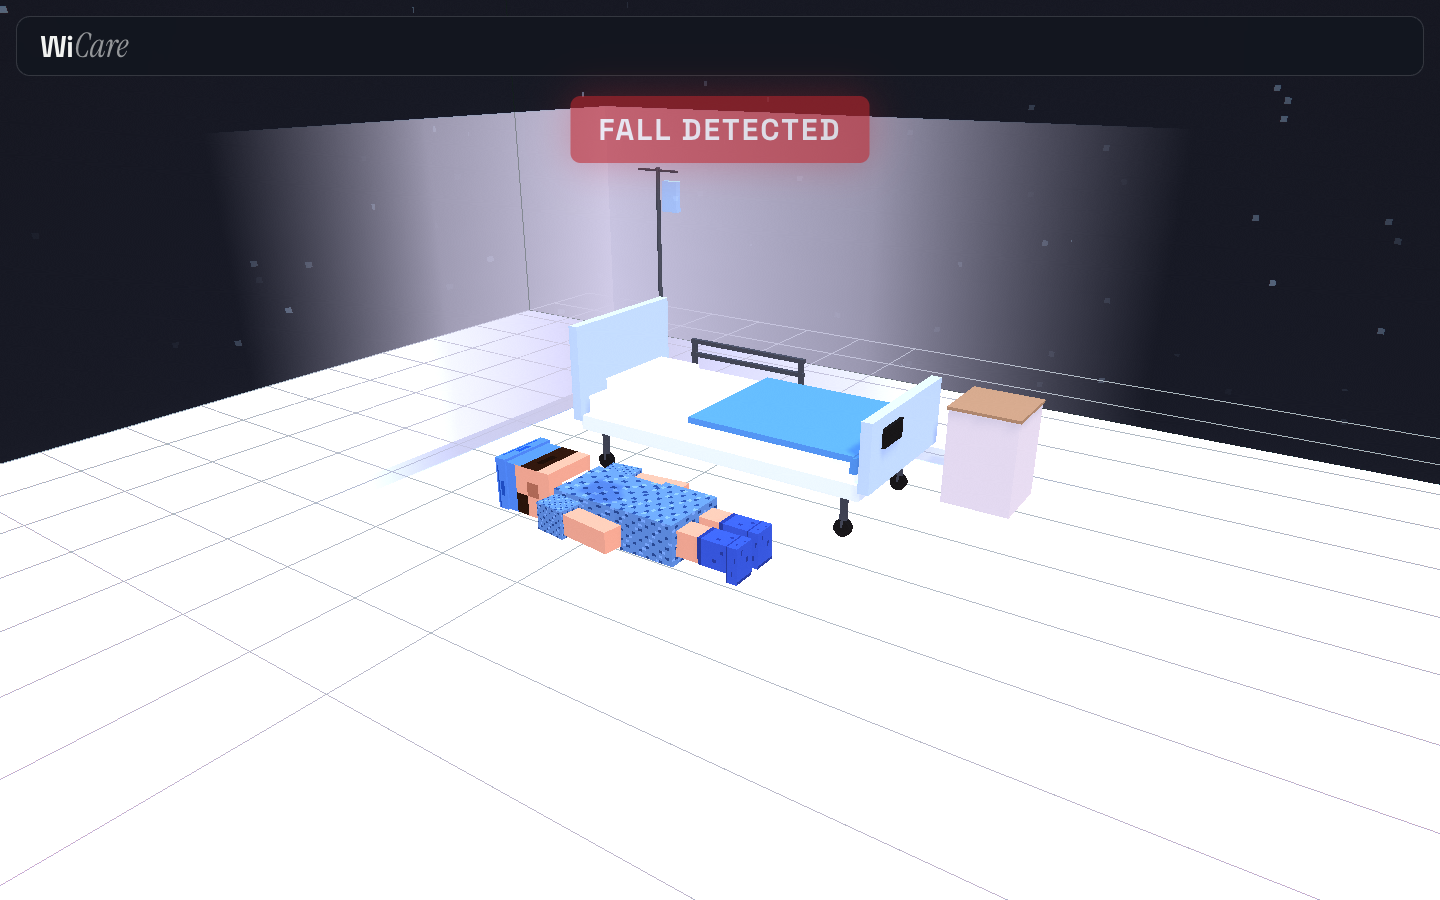
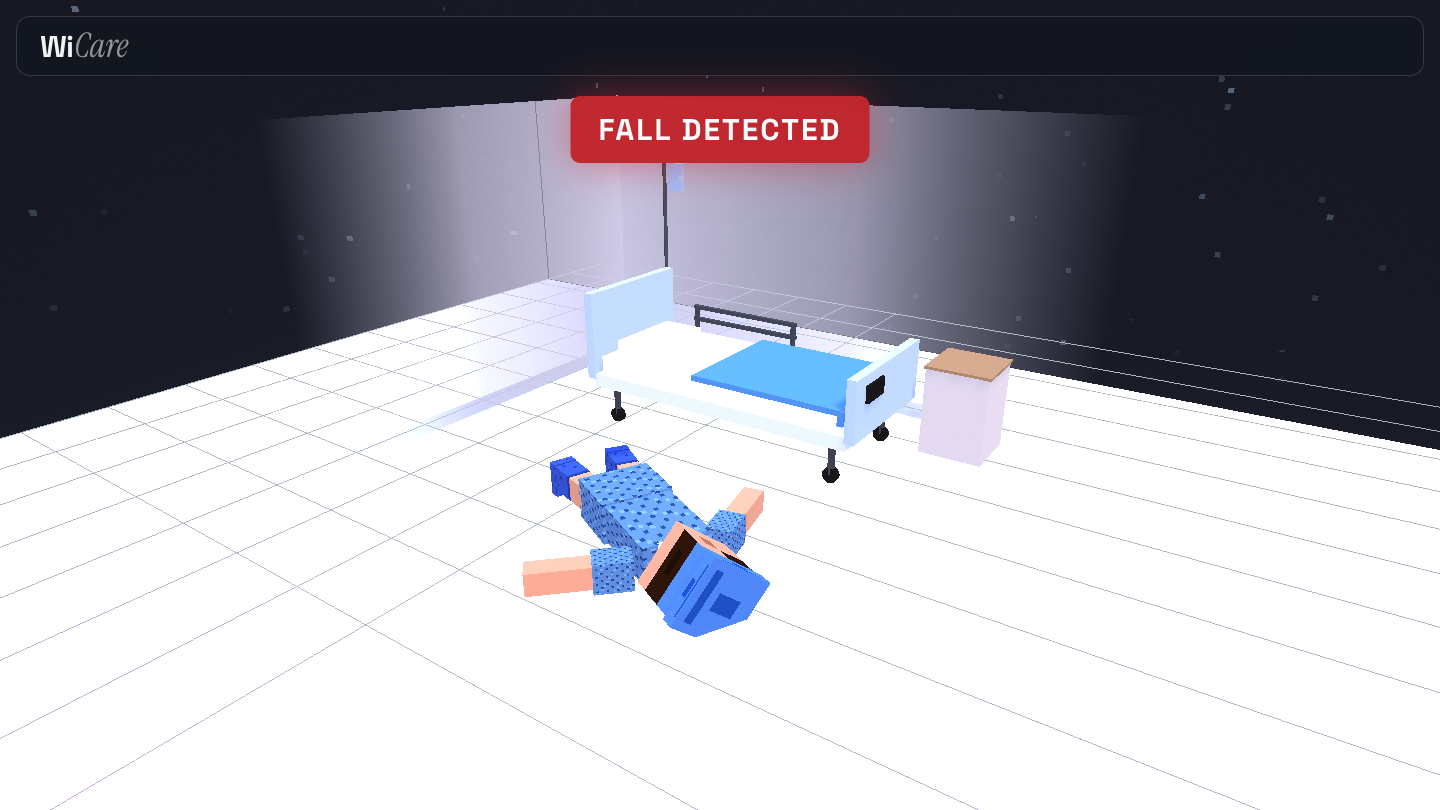
Room view: the patient falls to the floor beside the bed and stays there (plays once); new README pictures

diff --git a/frontend/observatory/js/pixel-patient.js b/frontend/observatory/js/pixel-patient.js
@@ -1,16 +1,14 @@
 /**
  * WiCare room view (?room=1): the patient as a pixel-style (blocky) man in a hospital gown, replacing the line figure.
- * Follows the room story from demo-data.js 'stand_fall': lying in bed, rolls off the near edge, face down on the floor.
- *   data.persons[0].pose: 'waking' (in bed) or 'bedfall'; data.persons[0].fallProgress: 0 in bed .. 1 on the floor.
- * Bed geometry matches scenario-props.js _buildHospital (centre -1.5, -2.5; mattress top 0.53; head toward -x).
+ * Follows the room story from demo-data.js 'stand_fall': standing beside the bed, falls forward, face down on the floor.
+ *   data.persons[0].fallProgress: 0 standing .. 1 on the floor.
+ * Bed geometry matches scenario-props.js _buildHospital (centre -1.5, -2.5; front edge z -1.9).
  */
 import * as THREE from 'three';
-import { WAKE_BED } from './pose-system.js';
+import { FALL_SPOT } from './demo-data.js';
 
-const BX = 3.5 + WAKE_BED.dx, BZ = -3.5 + WAKE_BED.dz, MATTRESS_TOP = 0.53;
 const S = 0.9, HALF_DEPTH = 0.13 * S;
-const HIP_BED = MATTRESS_TOP + HALF_DEPTH + 0.01;
-const EDGE_Y = MATTRESS_TOP, EDGE_Z = BZ + 0.46;
+const HIP = 0.85 * S;                                  // hip height when standing (feet on the floor)
 
 const SKIN = '#e8c4ab', SKIN_D = '#c99f86', HAIR = '#5a3a24', HAIR_D = '#3f2717';
 const GOWN = '#93b4cf', GOWN_D = '#5a84ad', GOWN_L = '#a9c5dc', SOCK = '#6d8fcf', SOCK_D = '#5675b3', CAP = '#86b0d8';
@@ -59,12 +57,11 @@ function block(w, h, d, m, x, y, z, parent) {
   b.position.set(x, y, z); b.castShadow = true; b.receiveShadow = true; parent.add(b); return b;
 }
 const ss = (a, b, t) => { const x = Math.min(1, Math.max(0, (t - a) / (b - a))); return x * x * (3 - 2 * x); };
-const mix = (a, b, k) => a + (b - a) * k;
 
 export class PixelPatient {
   constructor(scene) {
-    this.rig = new THREE.Group();                      // pivot on the mattress edge for the roll off the bed
-    this.root = new THREE.Group(); this.root.rotation.order = 'YXZ';
+    this.rig = new THREE.Group(); this.rig.rotation.order = 'YXZ';   // pivot at the feet: the body tips forward from here
+    this.root = new THREE.Group(); this.root.position.y = HIP;
     this.rig.add(this.root); scene.add(this.rig);
     const body = new THREE.Group(); body.scale.setScalar(S); this.root.add(body);
 
@@ -97,26 +94,25 @@ export class PixelPatient {
     });
   }
 
-  /** k: 0 lying in bed .. 1 face down on the floor beside it. */
+  /** k: 0 standing .. 1 face down on the floor. */
   set(k, breath, twitch = 0) {
-    const e = k * k * (3 - 2 * k), flail = Math.sin(k * Math.PI);
-    this.rig.position.set(0, mix(EDGE_Y, HALF_DEPTH + 0.02 + (HIP_BED - EDGE_Y), e), EDGE_Z + 0.15 * e);
-    this.rig.rotation.x = Math.PI * e;
-    this.root.position.set(BX - 0.05, HIP_BED - EDGE_Y, BZ - EDGE_Z);
-    this.root.rotation.set(-Math.PI / 2, Math.PI / 2, 0);   // on the back, head toward the headboard
-    this.torso.rotation.x = k === 0 ? breath * 0.015 : 0;
-    this.head.rotation.x = -0.3 * flail;
-    this.arms[0].rotation.set(-1.2 * flail + twitch, 0, -(0.5 * flail + 0.12 * k));
-    this.arms[1].rotation.set(-0.9 * flail, 0, 0.5 * flail + 0.12 * k);
-    this.legs[0].thigh.rotation.x = -0.5 * flail; this.legs[1].thigh.rotation.x = -0.2 * flail;
-    this.legs[0].shin.rotation.x = 0.6 * flail; this.legs[1].shin.rotation.x = 0;
+    const e = k * k, flail = Math.sin(k * Math.PI), sway = (1 - Math.min(1, k * 4)) * breath;
+    this.rig.position.set(FALL_SPOT.x, (HALF_DEPTH + 0.02) * e, FALL_SPOT.z);
+    this.rig.rotation.set(Math.PI / 2 * e, FALL_SPOT.facing, sway * 0.02);
+    this.torso.rotation.x = sway * 0.015 + 0.25 * flail;                 // folds at the waist on the way down
+    this.head.rotation.set(-0.3 * flail, 0.9 * e, 0);                    // ends with the face turned to one side
+    // arms come forward to break the fall, then lie out to the sides
+    this.arms[0].rotation.set(-1.3 * flail, 0, -(1.25 * e + twitch));
+    this.arms[1].rotation.set(-1.0 * flail, 0, 0.9 * e);
+    this.legs[0].thigh.rotation.set(-0.55 * flail, 0, -0.12 * e); this.legs[1].thigh.rotation.set(-0.3 * flail, 0, 0.1 * e);
+    this.legs[0].shin.rotation.x = 0.9 * flail; this.legs[1].shin.rotation.x = 0.5 * flail;   // knees buckle
   }
 
   update(data, elapsed) {
     const p = data && data.persons && data.persons[0];
-    const k = p && p.pose === 'bedfall' ? Math.max(0, Math.min(1, p.fallProgress || 0)) : 0;
+    const k = p ? Math.max(0, Math.min(1, p.fallProgress || 0)) : 0;
     const onFloorFor = k >= 1 ? (this._downAt ??= elapsed, elapsed - this._downAt) : (this._downAt = null, 0);
-    const twitch = onFloorFor > 2 && onFloorFor < 2.6 ? Math.sin((onFloorFor - 2) * 10) * 0.25 : 0;
+    const twitch = onFloorFor > 2 && onFloorFor < 2.6 ? Math.sin((onFloorFor - 2) * 10) * 0.12 : 0;
     this.set(k, Math.sin(elapsed * Math.PI * 0.5), twitch);
   }
 }

diff --git a/frontend/observatory/js/demo-data.js b/frontend/observatory/js/demo-data.js
@@ -12,6 +12,9 @@
 
 import { WAKE_BED } from './pose-system.js';
 
+// WiCare room view: where the patient stands (on the floor in front of the bed) and which way they face and fall
+export const FALL_SPOT = { x: -1.9, z: -1.2, facing: 1.1 };
+
 const SCENARIOS = [
   'empty_room',
   'single_breathing',
@@ -598,18 +601,17 @@ export class DemoDataGenerator {
   }
 
   // ========================================================================
-  // WiCare room view (?room=1): lying in bed 0-7 s, falls out of bed 7-8 s, on the floor until 15 s.
+  // WiCare room view (?room=1): standing beside the bed, falls 1.5-2.4 s, then stays on the floor (no repeat).
   // ========================================================================
 
   _standFall(t) {
     const n = _getNoiseBank('stand_fall');
-    t = t % 15;
-    const T0 = 7, T1 = 8;
+    const T0 = 1.5, T1 = 2.4;
     const inFall = t >= T0 && t < T1, down = t >= T1;
     const k = inFall ? (t - T0) / (T1 - T0) : down ? 1 : 0;
-    const bx = 3.5 + WAKE_BED.dx, bz = -3.5 + WAKE_BED.dz;
-    const pose = t < T0 ? 'waking' : 'bedfall';
-    const ms = inFall ? 255 : down ? 2 + Math.abs(n.motion(t)) : 4;
+    const { x, z } = FALL_SPOT;
+    const pose = down ? 'fallen' : inFall ? 'falling' : 'standing';
+    const ms = inFall ? 255 : down ? 2 + Math.abs(n.motion(t)) : 12;
     const impact = inFall ? Math.sin(k * Math.PI) : 0;
     const amplitude = new Float32Array(64);
     for (let i = 0; i < 64; i++) amplitude[i] = (down ? 0.15 : 0.3) + impact * 0.5 + _harmonicNoise(t, i * 0.19, 2) * 0.01;
@@ -618,10 +620,9 @@ export class DemoDataGenerator {
       features: { mean_rssi: -43, variance: down ? 0.5 : 1.5 + impact * 6, std: 1, motion_band_power: inFall ? 0.9 : 0.03,
         breathing_band_power: 0.1, dominant_freq_hz: inFall ? 3.5 : 0.2, spectral_power: inFall ? 0.9 : 0.15 },
       classification: { motion_level: inFall ? 'active' : 'present_still', presence: true, confidence: 0.8, fall_detected: inFall || down },
-      signal_field: { grid_size: [20, 1, 20], values: this._presenceField(10 + bx, 10 + bz, 2, t) },
+      signal_field: { grid_size: [20, 1, 20], values: this._presenceField(10 + x, 10 + z, 2, t) },
       vital_signs: { breathing_rate_bpm: down ? 22 : 13, heart_rate_bpm: down ? 104 : 64, breathing_confidence: 0.8, heart_rate_confidence: 0.7 },
-      persons: [{ id: 'p0', position: [bx, k > 0.5 ? 0.05 : 0.5, bz + 0.6 * k], motion_score: ms, pose, wake: 0, facing: 0,
-        fallProgress: k }],
+      persons: [{ id: 'p0', position: [x, 0, z], motion_score: ms, pose, facing: FALL_SPOT.facing, fallProgress: k }],
       estimated_persons: 1,
     });
   }

diff --git a/frontend/observatory/js/pose-system.js b/frontend/observatory/js/pose-system.js
@@ -38,7 +38,6 @@ export class PoseSystem {
       case 'crouching':   kps = this.poseCrouching(px, pz, elapsed, bp); break;
       case 'walking':     kps = this.poseWalking(px, pz, elapsed, ms, bp); break;
       case 'waking':      kps = this.poseWaking(person.wake || 0, elapsed, bp); break;
-      case 'bedfall':     kps = this.poseBedFall(person.fallProgress || 0, elapsed, bp); break;
       case 'standing':
       default:            kps = this.poseStanding(px, pz, elapsed, ms, bp); break;
     }
@@ -80,23 +79,6 @@ export class PoseSystem {
     const chest = bp * 0.012 * (1 - w / 3);
     for (const k of [5, 6, 11, 12]) out[k][1] += chest;
     return out;
-  }
-
-  /** WiCare room view: lying on the bed, rolls over the near edge (z + 0.45) and lands face down on the floor.
-   *  k: 0 = in bed, 1 = on the floor. Half a turn about the mattress edge while the edge drops to the floor. */
-  poseBedFall(k, elapsed, bp) {
-    const keys = PoseSystem._wakeKeys || (PoseSystem._wakeKeys = this._buildWakeKeys());
-    const e = k * k * (3 - 2 * k), th = Math.PI * e, c = Math.cos(th), s = Math.sin(th);
-    const ez = -3.5 + WAKE_BED.dz + 0.45, ey = 0.53;
-    const py = ey + (0.2 - ey) * e, pz = ez + 0.15 * e;
-    const flail = Math.sin(k * Math.PI) * 0.18, settle = k >= 1 ? 0 : 1;
-    return keys[0].map(([x, y, z], i) => {
-      const dy = y - ey, dz = z - ez;
-      const out = [x, py + dy * c - dz * s, pz + dy * s + dz * c];
-      if (i >= 7 && i <= 10) out[1] += flail * settle;                 // arms flail on the way down
-      if (k <= 0 && (i === 5 || i === 6 || i === 11 || i === 12)) out[1] += bp * 0.012;
-      return out;
-    });
   }
 
   _wakeStanding(elapsed, bp) {

diff --git a/frontend/observatory/js/auracare.js b/frontend/observatory/js/auracare.js
@@ -16,10 +16,9 @@ import { dotChart } from './aura-viz.js';
 // ?scene=fall plays the older fall story instead.
 const SCENE = new URLSearchParams(location.search).get('scene');
 // ?room=1: the WiCare room view. WiCare's dashboard sends the nurse here after they reply 1 to the fall alert
-// (wicare/fallguard/fallguard/room.py). Plays the wake-up story in a hospital room; no WiCare backend needed.
+// (wicare/fallguard/fallguard/room.py). Shows the patient falling to the floor beside the bed; no WiCare backend needed.
 const ROOM_VIEW = new URLSearchParams(location.search).has('room');
-const ROOM_VIEW_ = new URLSearchParams(location.search).has('room');
-const STORY = ROOM_VIEW_ ? [{ scenario: 'stand_fall', dur: 15 }]
+const STORY = ROOM_VIEW ? [{ scenario: 'stand_fall', dur: Infinity }]     // plays once: the patient stays on the floor
   : SCENE === 'fall' ? [{ scenario: 'elderly_care', dur: 26 }, { scenario: 'fall_event', dur: 34 }]
   : [{ scenario: 'wake_up', dur: 36 }];
 const IDLE_SCENE = SCENE === 'fall' ? 'elderly_care' : 'wake_up';
@@ -100,9 +99,8 @@ export class WiCare {
     this.t += dt;
     if (this.t > STORY[this.i].dur) return this._next();
     if (ROOM_VIEW) {
-      const pose = data && data.persons && data.persons[0] && data.persons[0].pose;
       const fp = data && data.persons && data.persons[0] && data.persons[0].fallProgress;
-      if (this._banner) this._banner.hidden = !((pose === 'bedfall' && fp > 0.3) || pose === 'falling' || pose === 'fallen');
+      if (this._banner) this._banner.hidden = !(fp > 0.3);
       return;
     }
     const pose = data && data.persons && data.persons[0] && data.persons[0].pose;

diff --git a/frontend/observatory/js/main.js b/frontend/observatory/js/main.js
@@ -615,7 +615,7 @@ class Observatory {
     const px = pp[0] || 0, pz = pp[2] || 0;
     const ms = persons[0].motion_score || 0;
     const pose = persons[0].pose || 'standing';
-    const isLying = pose === 'lying' || pose === 'fallen' || pose === 'bedfall' || (pose === 'waking' && (persons[0].wake || 0) < 1.5);
+    const isLying = pose === 'lying' || pose === 'fallen' || (pose === 'waking' && (persons[0].wake || 0) < 1.5);
     const bodyH = isLying ? 0.4 : 1.7;
     const bodyBaseY = isLying ? (pp[1] || 0) + 0.05 : 0.05;
     const spread = ms > 50 ? 0.6 : 0.4;

diff --git a/README.md b/README.md
@@ -16,8 +16,8 @@
 
 ## What it does
 
-WiCare uses the Wi-Fi waves already in a hospital room to notice abnormal movement, like a patient falling out
-of bed. There is no camera in the room and nothing for the patient to wear.
+WiCare uses the Wi-Fi waves already in a hospital room to notice abnormal movement, like a patient falling to
+the floor. There is no camera in the room and nothing for the patient to wear.
 
 When a person moves, the Wi-Fi signal in the room changes. A fall changes it in a specific way: a sudden burst
 of movement, then stillness. WiCare watches for that pattern. When it sees one, it texts the nurse through
@@ -47,9 +47,9 @@ After 8 seconds of stillness the monitor turns red and the nurse gets this text 
 
 The room stays private until the nurse asks to see it. Before that, the screen shows only a line on a chart.
 
-| Before | After the fall |
+| Just before | After the fall |
 |---|---|
-| <img src="docs/images/room-bed.png" alt="Room view: the patient lying in a hospital bed" width="440"> | <img src="docs/images/room-fall.png" alt="Room view: the patient on the floor beside the bed, FALL DETECTED" width="440"> |
+| <img src="docs/images/room-before.png" alt="Room view: the patient standing beside a hospital bed" width="440"> | <img src="docs/images/room-fall.png" alt="Room view: the patient on the floor beside the bed, FALL DETECTED" width="440"> |
 
 ## How it detects a fall from Wi-Fi
 
@@ -95,7 +95,8 @@ meant to be empty.
 conversation for the nurse's answer. **1** opens the room view on the monitor screen; **2** clears the alarm and
 logs a false alarm.
 
-**7. The room view.** A 3D room: hospital bed, the patient in a gown, the fall, and **FALL DETECTED** across the top.
+**7. The room view.** A 3D room: hospital bed, the patient in a gown falling to the floor, and **FALL DETECTED**
+across the top.
 
 ### What about vitals?
 

diff --git a/frontend/README.md b/frontend/README.md
@@ -1,9 +1,9 @@
 # WiCare room view
 
 `index.html?room=1` is the 3D room the nurse sees after replying 1: a hospital bed, a pixel-style patient in a gown
-(`observatory/js/pixel-patient.js`), a fall out of bed and a FALL DETECTED banner. `python run.py` (one folder up)
-serves it at `http://localhost:8000/room`. Timing: in bed 0-7 s, falls 7-8 s, on the floor until 15 s, then repeats
-(`&t=6` jumps to just before the fall).
+(`observatory/js/pixel-patient.js`) who falls to the floor, and a FALL DETECTED banner. `python run.py` (one folder
+up) serves it at `http://localhost:8000/room`. Timing: standing 0-1.5 s, falls 1.5-2.4 s, then stays on the floor
+(it plays once; reload to see it again).
 
 The rest of this file describes the earlier single-room page (the same files without `?room=1`).
 
